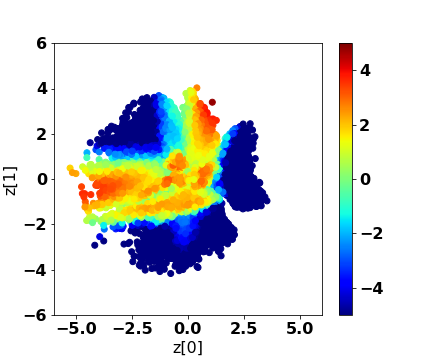
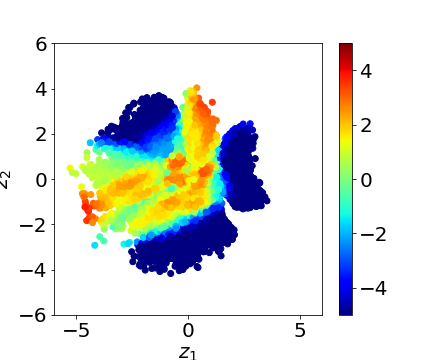
figures

diff --git a/python/ssl_mar/plot.py b/python/ssl_mar/plot.py
@@ -60,8 +60,8 @@ def plot_labeled_unlabeled(z_labeled, y_labeled, z_unlabeled):
     plt.figure(figsize=(6, 5))
     plt.scatter(z_unlabeled[:, 0], z_unlabeled[:, 1], c=(0,0,0), alpha=0.05)
     plt.scatter(z_labeled[:, 0], z_labeled[:, 1], c=y_labeled, cmap=cmap, vmin = -0.5, vmax = 9.5)
-    plt.xlabel("z[0]")
-    plt.ylabel("z[1]")
+    plt.xlabel("$z_1$")
+    plt.ylabel("$z_2$")
     plt.xlim([-6, 6])
     plt.ylim([-6, 6])
     plt.colorbar(ticks=[0,1,2,3,4,5,6,7,8,9])
@@ -71,8 +71,8 @@ def plot_labeled_unlabeled(z_labeled, y_labeled, z_unlabeled):
 def plot_maxlrt(z_unlabeled, lrt_y): 
     plt.figure(figsize=(6, 5))
     plt.scatter(z_unlabeled[:, 0], z_unlabeled[:, 1], c=np.max(lrt_y, axis=1), cmap='jet', vmin = -5, vmax = 5)
-    plt.xlabel("z[0]")
-    plt.ylabel("z[1]")
+    plt.xlabel("$z_1$")
+    plt.ylabel("$z_2$")
     plt.xlim([-6, 6])
     plt.ylim([-6, 6])
     plt.colorbar()
@@ -111,6 +111,7 @@ def plot_samples(z_unlabeled, samples, y_unlabeled):
     
 def plot_test(z_test, y_test_hat, y_test, pe_test):
     index_errors = np.nonzero(y_test != y_test_hat)
+    
 #    plt.figure(figsize=(5, 5))
 #    plt.scatter(z_test[:, 0], z_test[:, 1], c=(0,0,0), alpha=0.05)
 #    plt.scatter(z_test[index_errors, 0], z_test[index_errors, 1], c='red', alpha=0.05)
@@ -124,8 +125,8 @@ def plot_test(z_test, y_test_hat, y_test, pe_test):
     plt.figure(figsize=(6, 5))
     plt.scatter(z_test[:, 0], z_test[:, 1], c=pe_test, alpha=0.1, cmap='jet', vmin = 0, vmax = .9)
     plt.colorbar()
-    plt.xlabel("z[0]")
-    plt.ylabel("z[1]")
+    plt.xlabel("$z_1$")
+    plt.ylabel("$z_2$")
     plt.xlim([-6, 6])
     plt.ylim([-6, 6])
 #    plt.title('Estimated error probability')
@@ -147,6 +148,75 @@ def plot_test(z_test, y_test_hat, y_test, pe_test):
     plt.xlabel("Estimated error probability")
     plt.ylabel("Density")
     plt.savefig("density_pe_2.png")
+    
+def plot_test_mcar(z_test, y_test_hat, y_test, pe_test, leftout_classes):
+    index_errors_1 = np.nonzero(np.logical_and(y_test != y_test_hat, np.isin(y_test, leftout_classes)))
+    index_errors_2 = np.nonzero(np.logical_and(y_test != y_test_hat, np.logical_not(np.isin(y_test, leftout_classes))))    
+    
+    plt.figure(figsize=(6, 5))
+    plt.scatter(z_test[:, 0], z_test[:, 1], c=pe_test, alpha=0.1, cmap='jet', vmin = 0, vmax = .9)
+    plt.colorbar()
+    plt.xlabel("$z_1$")
+    plt.ylabel("$z_2$")
+    plt.xlim([-6, 6])
+    plt.ylim([-6, 6])
+    plt.savefig("estimated_pe_mcar.png")
+    
+    plt.figure(figsize=(5, 5))
+    plt.hist(pe_test[index_errors_1[0]], density=True, alpha=.5, label="Rarely observed")
+    plt.hist(pe_test[index_errors_2[0]], density=True, alpha=.5, label="Observed")
+    plt.legend()
+    plt.xlim([0, .9])
+    plt.ylim([0, 10])
+    plt.xlabel("Estimated error probability")
+    plt.ylabel("Density")
+    plt.savefig("density_pe_mcar.png")
+    
+def plot_test_mcar_soft(z_test, y_test_hat, y_test, pe_test, leftout_classes):
+    index_errors_1 = np.nonzero(np.logical_and(y_test != y_test_hat, np.isin(y_test, leftout_classes)))
+    index_errors_2 = np.nonzero(np.logical_and(y_test != y_test_hat, np.logical_not(np.isin(y_test, leftout_classes))))    
+    
+    plt.figure(figsize=(6, 5))
+    plt.scatter(z_test[:, 0], z_test[:, 1], c=pe_test, alpha=0.1, cmap='jet', vmin = 0, vmax = .9)
+    plt.colorbar()
+    plt.xlabel("$z_1$")
+    plt.ylabel("$z_2$")
+    plt.xlim([-6, 6])
+    plt.ylim([-6, 6])
+    plt.savefig("estimated_pe_mcar_soft.png")
+    
+    plt.figure(figsize=(5, 5))
+    plt.hist(pe_test[index_errors_1[0]], density=True, alpha=.5, label="Rarely observed")
+    plt.hist(pe_test[index_errors_2[0]], density=True, alpha=.5, label="Observed")
+    plt.legend()
+    plt.xlim([0, .9])
+    plt.ylim([0, 10])
+    plt.xlabel("Estimated error probability")
+    plt.ylabel("Density")
+    plt.savefig("density_pe_mcar_soft.png")
+    
+def plot_test_mar(z_test, y_test_hat, y_test, pe_test, leftout_classes):
+    index_errors_1 = np.nonzero(np.logical_and(y_test != y_test_hat, np.isin(y_test, leftout_classes)))
+    index_errors_2 = np.nonzero(np.logical_and(y_test != y_test_hat, np.logical_not(np.isin(y_test, leftout_classes))))    
+    
+    plt.figure(figsize=(6, 5))
+    plt.scatter(z_test[:, 0], z_test[:, 1], c=pe_test, alpha=0.1, cmap='jet', vmin = 0, vmax = .9)
+    plt.colorbar()
+    plt.xlabel("$z_1$")
+    plt.ylabel("$z_2$")
+    plt.xlim([-6, 6])
+    plt.ylim([-6, 6])
+    plt.savefig("estimated_pe_mar.png")
+    
+    plt.figure(figsize=(5, 5))
+    plt.hist(pe_test[index_errors_1[0]], density=True, alpha=.5, label="Rarely observed")
+    plt.hist(pe_test[index_errors_2[0]], density=True, alpha=.5, label="Observed")
+    plt.legend()
+    plt.xlim([0, .9])
+    plt.ylim([0, 10])
+    plt.xlabel("Estimated error probability")
+    plt.ylabel("Density")
+    plt.savefig("density_pe_mar.png")
     
 def plot_topn_pe(x_test, z_test, y_test_hat, y_test, pe_test, decoder, topn):
     n = topn  # Top error probalities

diff --git a/python/ssl_mar/ssl_mar.py b/python/ssl_mar/ssl_mar.py
@@ -22,9 +22,7 @@ import matplotlib as plt
 #from matplotlib.colors import LogNorm
 from sklearn import mixture
 
-font = {'weight' : 'bold',
-        'size'   : 16}
-plt.rc('font', **font)
+plt.rcParams.update({'font.size': 20})
 
 # MNIST dataset
 (x_train, y_train), (x_test, y_test) = mnist.load_data()
@@ -108,8 +106,8 @@ my_plt.plot_maxlrt(z_unlabeled, lrt_y)
 
 # Sampling from the posterior
 #y_unlabeled_hat = data.sampling_posterior_1(ll_y)
-#y_unlabeled_hat = data.sampling_posterior_2(ll_y, lrt_y)
-y_unlabeled_hat, _ = data.mle(ll_y)
+y_unlabeled_hat = data.sampling_posterior_2(ll_y, lrt_y)
+#y_unlabeled_hat, _ = data.mle(ll_y)
 #my_plt.plot_samples(z_unlabeled, y_unlabeled_hat, y_unlabeled)
 
 # GMM for labeled data + samples from posterior of each class
@@ -152,7 +150,9 @@ ll_y_test[:, 9] = pz_labeled_9_new.score_samples(z_test)
 ll_y_test[:, leftout_classes] = np.NINF
 
 y_test_mle, pe_test_mle = data.mle(ll_y_test)
-my_plt.plot_test(z_test, y_test_mle, y_test, pe_test_mle)
+#my_plt.plot_test(z_test, y_test_mle, y_test, pe_test_mle)
+my_plt.plot_test_mcar(z_test, y_test_mle, y_test, pe_test_mle, leftout_classes)
+
 #my_plt.plot_topn_pe(x_test, z_test, y_test_mle, y_test, pe_test_mle, decoder, 10)
 
 
